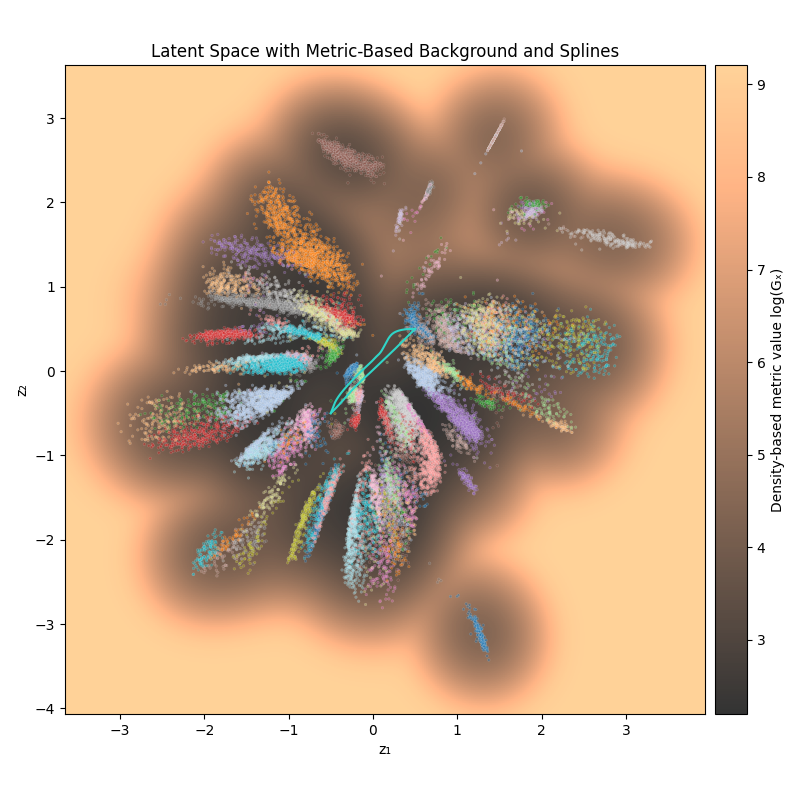
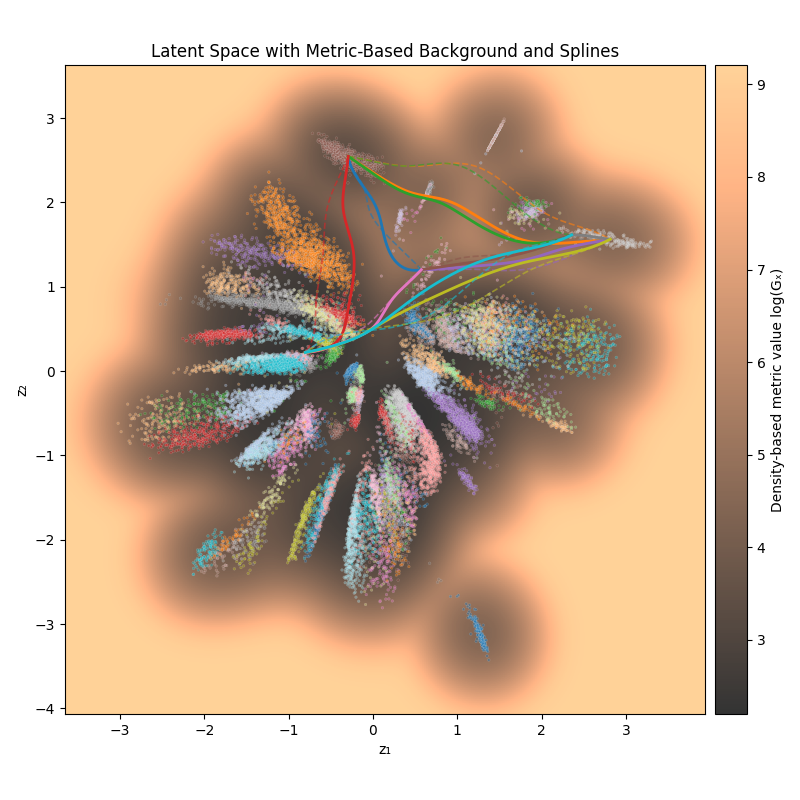
whole pipeline, begun distances

Changed region(s): [[0.375, 0.1875, 0.7812, 0.5312], [0.5625, 0.1875, 0.5938, 0.2188]]

diff --git a/src/optimize_energy_batch.py b/src/optimize_energy_batch.py
@@ -1,0 +1,250 @@
+import torch
+import torch.nn as nn
+import torch.optim as optim
+import matplotlib.pyplot as plt
+import numpy as np
+import pickle
+from pathlib import Path
+from src.vae_good import VAE
+
+import random
+import os
+
+def set_seed(seed=12):
+    torch.manual_seed(seed)
+    np.random.seed(seed)
+    random.seed(seed)
+    torch.use_deterministic_algorithms(True)
+    os.environ["CUBLAS_WORKSPACE_CONFIG"] = ":4096:8"  # Needed for deterministic CUDA ops
+
+    if torch.cuda.is_available():
+        torch.cuda.manual_seed_all(seed)
+
+set_seed(12)  
+
+
+class GeodesicSpline(nn.Module):
+    def __init__(self, point_pair, basis, n_poly):
+        super().__init__()
+        self.a, self.b = point_pair
+        self.n_poly = n_poly
+        self.basis = basis
+        gen = torch.Generator(device=self.a.device).manual_seed(12)
+        self.omega = nn.Parameter(0.01* torch.randn(basis.shape[1], self.a.shape[0], generator=gen, device=self.a.device))
+
+    def eval_piecewise_poly(self, t, coeffs):
+        t = t.flatten()
+        seg_idx = torch.clamp((t * self.n_poly).floor().long(), max=self.n_poly - 1)
+        local_t = t * self.n_poly - seg_idx.float()
+        powers = torch.stack([local_t**i for i in range(4)], dim=1)  # (T, 4)
+        seg_coefs = coeffs[seg_idx]  # (T, 4, dim)
+        return torch.einsum("ti,tid->td", powers, seg_coefs)
+
+    def forward(self, t):
+        coeffs = self.basis @ self.omega  # (4n, dim)
+        coeffs = coeffs.view(self.n_poly, 4, -1)  # (n_poly, 4, dim)
+
+        poly = self.eval_piecewise_poly(t, coeffs)
+        linear = (1 - t[:, None]) * self.a + t[:, None] * self.b
+        return linear + poly
+
+
+def nullspace(C, rtol=1e-10):
+    C = C.to(torch.float64)  
+    U, S, Vh = torch.linalg.svd(C, full_matrices=True)
+    rank = (S > rtol * S[0]).sum()
+    return Vh.T[:, rank:].contiguous()
+
+
+def construct_nullspace_basis(n_poly, device):
+    rows = []
+
+    # Boundary: spline offset(0) = 0 and offset(1) = 0
+    B = torch.zeros((2, 4 * n_poly), device=device, dtype=torch.float64)
+    B[0, 0] = 1.0   # first segment at t=0
+    B[1, -4:] = 1.0 # last segment at t=1
+    rows.append(B[0])
+    rows.append(B[1])
+    tc = torch.linspace(0, 1, n_poly + 1, device=device, dtype=torch.float64)[1:-1] # time cutoffs between polynomials
+
+    # C0, C1, C2 continuity at internal knots
+    for i in range(n_poly - 1):
+        si = 4 * i  # start index
+        # Local coordinate continuity: tL=1.0 (end of left), tR=0.0 (start of right)
+        tL, tR = 1.0, 0.0
+
+        # C0: continuity of position
+        c0 = torch.zeros(4 * n_poly, dtype=torch.float64, device=device)
+        c0[si:si+4] = torch.tensor([1, tL, tL**2, tL**3], device=device)
+        c0[si+4:si+8] = -torch.tensor([1, tR, tR**2, tR**3], device=device)
+        rows.append(c0)
+
+        # C1: continuity of first derivative
+        c1 = torch.zeros(4 * n_poly, dtype=torch.float64, device=device)
+        c1[si:si+4] = torch.tensor([0, 1, 2*tL, 3*tL**2], device=device)
+        c1[si+4:si+8] = -torch.tensor([0, 1, 2*tR, 3*tR**2], device=device)
+        rows.append(c1)
+
+        # C2: continuity of second derivative
+        c2 = torch.zeros(4 * n_poly, dtype=torch.float64, device=device)
+        c2[si:si+4] = torch.tensor([0, 0, 2, 6*tL], device=device)
+        c2[si+4:si+8] = -torch.tensor([0, 0, 2, 6*tR], device=device)
+        rows.append(c2)
+
+    C = torch.stack(rows)
+
+    basis = nullspace(C)
+    basis = torch.linalg.qr(basis)[0]
+    
+    # print("||C @ basis|| =", torch.norm(C @ basis.double()).item())
+    # print(f"New residual: {torch.norm(C @ basis):.2e}")
+    # print(f"rank of C: {torch.linalg.matrix_rank(C)}")
+    # print(f"expected rank: {C.shape[0]}")
+    return basis.to(dtype=torch.float32), C.to(dtype=torch.float32)
+
+
+
+def compute_energy(spline, decoder, t_vals):
+    z = spline(t_vals)  # (T, latent_dim)
+    x = decoder(z).mean  # (T, data_dim)
+    x_flat = x.view(x.size(0), -1)  # Flatten to (T, obs_dim)
+
+    diffs = x_flat[1:] - x_flat[:-1]
+    dist_sq = diffs.pow(2).sum(dim=1)
+    energy = dist_sq.sum()
+    return energy
+
+
+
+# ------------------ Optimization ------------------
+def optimize_spline(spline, decoder, C, steps=1000, lr=1e-2, patience=500, delta=1e-6):
+    # Automatically get the correct parameter tensor
+    param = spline.omega if hasattr(spline, "omega") else spline.params
+    optimizer = optim.Adam([param], lr=lr)
+
+    t_vals = torch.linspace(0, 1, 2000, device=param.device)
+
+    best_energy = compute_energy(spline, decoder, t_vals).item()
+    best_params = param.data.clone()
+    patience_counter = 0
+
+    for step in range(steps):
+        optimizer.zero_grad()
+        energy = compute_energy(spline, decoder, t_vals)
+
+        
+        # Add penalty on deviation from b at t=1
+        t_end = torch.tensor([1.0], device=param.device)
+        end_error = (spline(t_end) - spline.b).pow(2).sum()
+        full_loss = energy + 1000.0 * end_error  # weight penalty
+
+        full_loss.backward()
+
+        # if step >= 2500:
+        #     torch.nn.utils.clip_grad_value_([spline.omega], clip_value=0.1)
+
+        optimizer.step()
+
+        new_energy = energy.item()
+        rel_improvement = (best_energy - new_energy) / best_energy
+        if rel_improvement > delta:
+            best_energy = new_energy
+            best_params = param.data.clone()
+            patience_counter = 0
+        else:
+            patience_counter += 1
+
+        if step % 50 == 0:
+            print(f"Step {step:4d}: Energy = {new_energy:.4f} | ω grad norm = {param.grad.norm():.4f}")
+
+        if patience_counter > patience:
+            print("Early stopping.")
+            break
+
+    param.data.copy_(best_params)
+    print(f"omegas: {param.data.cpu().numpy()}")
+    return spline
+
+def compute_arc_length(spline, steps=2000):
+    t = torch.linspace(0, 1, steps, device=spline.omega.device)
+    z = spline(t)
+    diffs = z[1:] - z[:-1]
+    segment_lengths = torch.norm(diffs, dim=1)
+    return segment_lengths.sum().item()
+
+@torch.no_grad()
+def compute_geodesic_length(spline, decoder, steps=2000):
+    t = torch.linspace(0, 1, steps, device=spline.omega.device)
+    z = spline(t)
+    x = decoder(z).mean  # Decoded points in data space
+    diffs = x[1:] - x[:-1]
+    segment_lengths = torch.norm(diffs, dim=1)
+    return segment_lengths.sum().item()
+
+
+
+# ------------------ Main ------------------
+if __name__ == "__main__":
+    device = "cuda" if torch.cuda.is_available() else "cpu"
+    decoder_path = "src/artifacts/vae_best_avae.pth"
+    vae = VAE(input_dim=50, latent_dim=2).to(device)
+    vae.load_state_dict(torch.load(decoder_path, map_location=device))
+    vae.eval()
+    decoder = vae.decoder
+
+    spline_batch = torch.load("src/artifacts/spline_batch.pt", map_location=device)
+    optimized_batch = []
+
+    os.makedirs("src/plots", exist_ok=True)
+    plt.figure(figsize=(8, 8))
+    colors = plt.cm.tab10.colors
+
+    for i, data in enumerate(spline_batch):
+        a = data["a"].to(device)
+        b = data["b"].to(device)
+        basis = data["basis"].to(device)
+        omega_init = data["omega_init"].to(device)
+        n_poly = data["n_poly"]
+        _, C = construct_nullspace_basis(n_poly, device)
+
+        spline = GeodesicSpline((a, b), basis, n_poly).to(device)
+        spline.omega.data.copy_(omega_init)
+
+        spline_init = GeodesicSpline((a, b), basis, n_poly).to(device)
+        spline_init.omega.data.copy_(omega_init)
+
+        spline = optimize_spline(spline, decoder, C, steps=500, lr=1e-3, patience=500)
+
+        # Geodesic and Euclidean lengths
+        length_geodesic = compute_geodesic_length(spline, decoder)
+        length_euclidean = torch.norm(a - b).item()
+        print(f"[{i+1}/{len(spline_batch)}] Euclidean: {length_euclidean:.4f} | Geodesic: {length_geodesic:.4f}")
+
+        t = torch.linspace(0, 1, 2000, device=device)
+        z_opt = spline(t).detach().cpu().numpy()
+        z_init = spline_init(t).detach().cpu().numpy()
+
+        color = colors[i % len(colors)]
+        plt.plot(z_init[:, 0], z_init[:, 1], linestyle="--", color=color)
+        plt.plot(z_opt[:, 0], z_opt[:, 1], linestyle="-", color=color, label=f"Spline {i+1}/{len(spline_batch)}")
+
+        optimized_batch.append({
+            "a": a.cpu(),
+            "b": b.cpu(),
+            "n_poly": n_poly,
+            "basis": basis.cpu(),
+            "omega_init": omega_init.cpu(),
+            "omega_optimized": spline.omega.data.cpu(),
+            "length_euclidean": length_euclidean,
+            "length_geodesic": length_geodesic
+        })
+
+    plt.title(f"Optimized Geodesic Splines ({len(spline_batch)} total)")
+    plt.axis("equal")
+    plt.grid(True)
+    plt.legend()
+    plt.tight_layout()
+    plt.savefig("src/plots/optimized_vs_initial_splines.png", dpi=300)
+    torch.save(optimized_batch, "src/artifacts/spline_batch_optimized.pt")
+    print("Saved optimized splines to src/artifacts/spline_batch_optimized.pt")
+    print("Saved plot to src/plots/optimized_vs_initial_splines.png")

diff --git a/src/plotting.py b/src/plotting.py
@@ -297,7 +297,6 @@ def plot_latents_with_density(latents, labels, res=300, filename="src/plots/aml_
 
 
 def plot_latent_density_with_splines(latents, labels, splines, res=300, filename="src/plots/latent_density_with_splines.png"):
-
     x = latents[:, 0]
     y = latents[:, 1]
 
@@ -321,7 +320,7 @@ def plot_latent_density_with_splines(latents, labels, splines, res=300, filename
     Gx = 1 / (density + epsilon)
     log_metric = np.log1p(Gx).reshape(xi.shape)
 
-    # Plot
+    # Plot setup
     fig, ax = plt.subplots(figsize=(8, 8))
     im = ax.imshow(
         log_metric.T,
@@ -334,10 +333,24 @@ def plot_latent_density_with_splines(latents, labels, splines, res=300, filename
 
     sns.scatterplot(x=x, y=y, hue=labels, palette="tab20", s=4, alpha=0.4, legend=False, ax=ax)
 
-    for spline in splines:
-        t_vals = torch.linspace(0, 1, 200, device=spline.omega.device)
-        z_path = spline(t_vals).detach().cpu().numpy()
-        ax.plot(z_path[:, 0], z_path[:, 1], '#30D5C8', linewidth=1.5)
+    # Plot splines
+    from matplotlib import cm
+    colors = cm.get_cmap("tab10", len(splines))
+
+    for i, spline_pair in enumerate(splines):
+        color = colors(i)
+        if isinstance(spline_pair, (list, tuple)):
+            spline_init, spline_opt = spline_pair
+            t_vals = torch.linspace(0, 1, 200, device=spline_init.omega.device)
+            z_init = spline_init(t_vals).detach().cpu().numpy()
+            z_opt = spline_opt(t_vals).detach().cpu().numpy()
+            ax.plot(z_init[:, 0], z_init[:, 1], '--', linewidth=1.2, alpha=0.6, color=color)
+            ax.plot(z_opt[:, 0], z_opt[:, 1], '-', linewidth=2.0, color=color)
+        else:
+            spline = spline_pair
+            t_vals = torch.linspace(0, 1, 200, device=spline.omega.device)
+            z_path = spline(t_vals).detach().cpu().numpy()
+            ax.plot(z_path[:, 0], z_path[:, 1], '-', linewidth=1.5, color=color)
 
     ax.set_xlim(xlim)
     ax.set_ylim(ylim)
@@ -345,7 +358,6 @@ def plot_latent_density_with_splines(latents, labels, splines, res=300, filename
     ax.set_ylabel("z₂")
     ax.set_title("Latent Space with Metric-Based Background and Splines")
 
-    # Colorbar (aligned to axis height
     divider = make_axes_locatable(ax)
     cax = divider.append_axes("right", size="5%", pad=0.1)
     cbar = fig.colorbar(im, cax=cax)

diff --git a/src/density.py b/src/density.py
@@ -2,9 +2,8 @@ import torch
 import numpy as np
 from pathlib import Path
 from src.vae_good import VAE
-from src.plotting import plot_latent_density_with_splines
 from src.optimize_energy import GeodesicSpline
-
+from src.plotting import plot_latent_density_with_splines
 
 # ---- CONFIG ----
 device = torch.device("cuda" if torch.cuda.is_available() else "cpu")
@@ -21,29 +20,34 @@ labels = np.load("data/tasic-ttypes.npy")
 vae = VAE(input_dim=50, latent_dim=2).to(device)
 vae.load_state_dict(torch.load(ARTIFACT_DIR / "vae_best_avae.pth", map_location=device))
 vae.eval()
-decoder = vae.decoder
 
-# ---- LOAD SPLINE OBJECT ----
-spline_data = torch.load(ARTIFACT_DIR / "spline_pair.pt", map_location=device)
-a = spline_data["a"].to(device)
-b = spline_data["b"].to(device)
-n_poly = spline_data["n_poly"]
-basis = spline_data["basis"].to(device)
-omega_init = spline_data["omega_init"].to(device)
-omega_opt = spline_data["omega_optimized"].to(device)
-pair = (a, b)
+# ---- LOAD SPLINE BATCH ----
+batch_data = torch.load(ARTIFACT_DIR / "spline_batch_optimized.pt", map_location=device)
+spline_pairs = []
 
-spline_init = GeodesicSpline(pair, basis, n_poly).to(device)
-spline_init.omega.data.copy_(omega_init)
+for entry in batch_data:
+    a = entry["a"].to(device)
+    b = entry["b"].to(device)
+    n_poly = entry["n_poly"]
+    basis = entry["basis"].to(device)
+    omega_init = entry["omega_init"].to(device)
+    omega_opt = entry["omega_optimized"].to(device)
 
-spline_opt = GeodesicSpline(pair, basis, n_poly).to(device)
-spline_opt.omega.data.copy_(omega_opt)
+    pair = (a, b)
+
+    spline_init = GeodesicSpline(pair, basis, n_poly).to(device)
+    spline_init.omega.data.copy_(omega_init)
+
+    spline_opt = GeodesicSpline(pair, basis, n_poly).to(device)
+    spline_opt.omega.data.copy_(omega_opt)
+
+    spline_pairs.append((spline_init, spline_opt))
 
 # ---- PLOT ----
 plot_latent_density_with_splines(
     latents=latents,
     labels=labels,
-    splines=[spline_init, spline_opt],
+    splines=spline_pairs,
     filename=str(PLOT_PATH)
 )
 

diff --git a/src/init_spline.py b/src/init_spline.py
@@ -155,7 +155,7 @@ def main():
     plt.grid(True)
     plt.legend()
     plt.tight_layout()
-    plt.savefig("src/plots/all_splines_combined.png", dpi=300)
+    plt.savefig("src/plots/splines_init_dijkstra.png", dpi=300)
     plt.close()
 
     # Save all splines to disk in a compatible format
